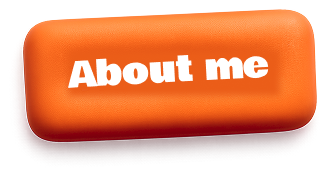
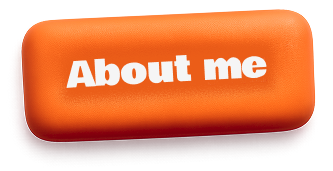
main

diff --git a/portfolio/src/sections/Hero.jsx b/portfolio/src/sections/Hero.jsx
@@ -2,32 +2,25 @@ import React from "react";
 
 const Hero = () => {
   return (
-    <section className="relative w-full min-h-screen bg-white overflow-visible">
-      {/* Шапка */}
-      <div className="absolute top-10 left-1/2 -translate-x-1/2 w-full max-w-[1440px] px-4 z-10">
-        <div className="relative flex items-center justify-between px-6 py-4 rounded-full bg-gradient-to-b from-white to-[#f2f2f2] border border-[#e6e6e6] shadow-[inset_0_4px_10px_rgba(0,0,0,0.3)]">
-          
-          {/* Кнопки */}
-          <div className="flex gap-4">
-            <img
-              src="/assets/hero/button-about-me.png"
-              alt="About Me"
-              className="w-[150px] cursor-pointer hover:scale-105 transition"
-            />
-            <img
-              src="/assets/hero/button-assets.png"
-              alt="Assets"
-              className="w-[150px] cursor-pointer hover:scale-105 transition"
-            />
-          </div>
-        </div>
-      </div>
-
-      {/* Папка позади */}
+    <section className="relative w-full min-h-screen overflow-visible">
+      {/* Бумага с заголовком */}
       <img
         src="/assets/hero/1screen.png"
-        alt="Folder"
-        className="absolute top-28 left-1/2 -translate-x-1/2 w-[95%] max-w-[1200px] z-10 overflow-visible"
+        alt="Hero composition"
+        className="
+         absolute
+          top-0
+          left-1/2
+          -translate-x-[60%]
+          w-[130vw]
+          max-w-[1800px]
+          md:w-[110vw]
+          sm:w-[100vw]
+          sm:-translate-x-[55%]
+          z-10
+          transition-all
+          duration-500
+        "
       />
     </section>
   );

diff --git a/portfolio/src/sections/Header.jsx b/portfolio/src/sections/Header.jsx
@@ -1,0 +1,34 @@
+import React from "react";
+import ToggleSwitch from "../components/ToggleSwitch";
+
+const Header = ({ isDark, setIsDark }) => {
+  return (
+    <div className="w-full max-w-[1440px] mx-auto px-4 pt-6 z-20">
+      <div className="relative flex items-center justify-between px-6 py-4 rounded-full bg-gradient-to-b from-white to-[#f2f2f2] border border-[#e6e6e6] shadow-[inset_0_4px_10px_rgba(0,0,0,0.3)]">
+        
+        {/* Кнопки */}
+        <div className="flex gap-4">
+          <img
+            src="/assets/hero/button-about-me.png"
+            alt="About Me"
+            className="w-[150px] cursor-pointer hover:scale-105 transition"
+          />
+          <img
+            src="/assets/hero/button-assets.png"
+            alt="Assets"
+            className="w-[150px] cursor-pointer hover:scale-105 transition"
+          />
+        </div>
+
+        {/* Тоггл справа */}
+        <div className="ml-auto pl-6 flex items-center">
+          <div className="w-14 h-14 bg-[#eaeaea] border border-[#ccc] rounded-full shadow-[inset_0_2px_5px_rgba(0,0,0,0.2)] flex items-center justify-center">
+            <ToggleSwitch onToggle={setIsDark} isDark={isDark} />
+          </div>
+        </div>
+      </div>
+    </div>
+  );
+};
+
+export default Header;

diff --git a/portfolio/src/App.jsx b/portfolio/src/App.jsx
@@ -1,18 +1,26 @@
-import React from 'react'
-import Projects from './sections/Projects';
-import Hero from './sections/Hero';
-import About from './sections/About';
-import Education from './sections/Education';
+import React, { useState } from "react";
+import Header from "./sections/Header";
+import Hero from "./sections/Hero";
+import About from "./sections/About";
+import Education from "./sections/Education";
+import Projects from "./sections/Projects";
 
-const App = () => {
+function App() {
+  const [isDark, setIsDark] = useState(false);
+
   return (
-    <main className='text-black'>
-    <Hero />
-    <About />
-    <Education />
-   <Projects />
-   </main>
-  )
+    <div className={`transition-all duration-700 relative ${isDark ? "bg-[#868686] text-white" : "bg-[#D4D4D4] text-black"}`}>
+      
+      {/* Контент сайта */}
+      <main className="relative z-20">
+        <Header isDark={isDark} setIsDark={setIsDark} />
+        <Hero />
+        <About />
+        <Education />
+        <Projects />
+      </main>
+    </div>
+  );
 }
 
 export default App;

diff --git a/portfolio/src/components/ToggleSwitch.jsx b/portfolio/src/components/ToggleSwitch.jsx
@@ -1,0 +1,28 @@
+// src/components/ToggleSwitch.jsx
+import React from "react";
+import { motion, AnimatePresence } from "framer-motion";
+
+const ToggleSwitch = ({ onToggle, isDark }) => {
+  return (
+    <motion.button
+      onClick={() => onToggle(!isDark)}
+      className="w-12 h-12 rounded-full bg-transparent shadow-md flex items-center justify-center border border-gray-300 hover:scale-105 transition"
+      whileTap={{ scale: 0.95 }}
+    >
+      <AnimatePresence mode="wait">
+        <motion.img
+          key={isDark ? "moon" : "sun"}
+          src={isDark ? "/assets/hero/moon.svg" : "/assets/hero/sun.svg"}
+          alt="theme icon"
+          initial={{ opacity: 0, rotate: -90 }}
+          animate={{ opacity: 1, rotate: 0 }}
+          exit={{ opacity: 0, rotate: 90 }}
+          transition={{ duration: 0.3 }}
+          className="w-6 h-6"
+        />
+      </AnimatePresence>
+    </motion.button>
+  );
+};
+
+export default ToggleSwitch;

diff --git a/portfolio/src/sections/About.jsx b/portfolio/src/sections/About.jsx
@@ -4,7 +4,7 @@ const About = () => {
   return (
     <section
       id="about"
-      className="relative w-full min-h-[900px] -mt-[120px] bg-white overflow-visible z-10"
+      className="relative w-full min-h-[900px] -mt-[120px] bg-transparent overflow-visible z-10"
     >
       <div className="relative w-full max-w-[1200px] mx-auto">
         <img

diff --git a/portfolio/src/sections/Education.jsx b/portfolio/src/sections/Education.jsx
@@ -2,7 +2,7 @@ import React from 'react';
 
 const Education = () => {
   return (
-    <section className="relative w-full  bg-white overflow-visible">
+    <section className="relative w-full  bg-transparent overflow-visible">
       {/* Карта обучения */}
       <img
         src="/assets/hero/3screen.png"

diff --git a/portfolio/src/sections/Projects.jsx b/portfolio/src/sections/Projects.jsx
@@ -17,7 +17,7 @@ export default function Projects() {
   }, []);
 
   return (
-  <section className="p-6 bg-white text-black">
+  <section className="p-6 bg-transparent text-black">
     <h2 className="text-3xl font-bold mb-6">Проекты</h2>
     <div className="space-y-4">
       {projects.map((project) => (

diff --git a/portfolio/src/index.css b/portfolio/src/index.css
@@ -57,7 +57,7 @@ html, body{
   width: 100%;
   overflow-x: hidden;
   scroll-behavior: smooth;
-  background-color: var(--color-white-100);
+  background-color: transparent;
   color: var(--color-black-300);
 }
 
